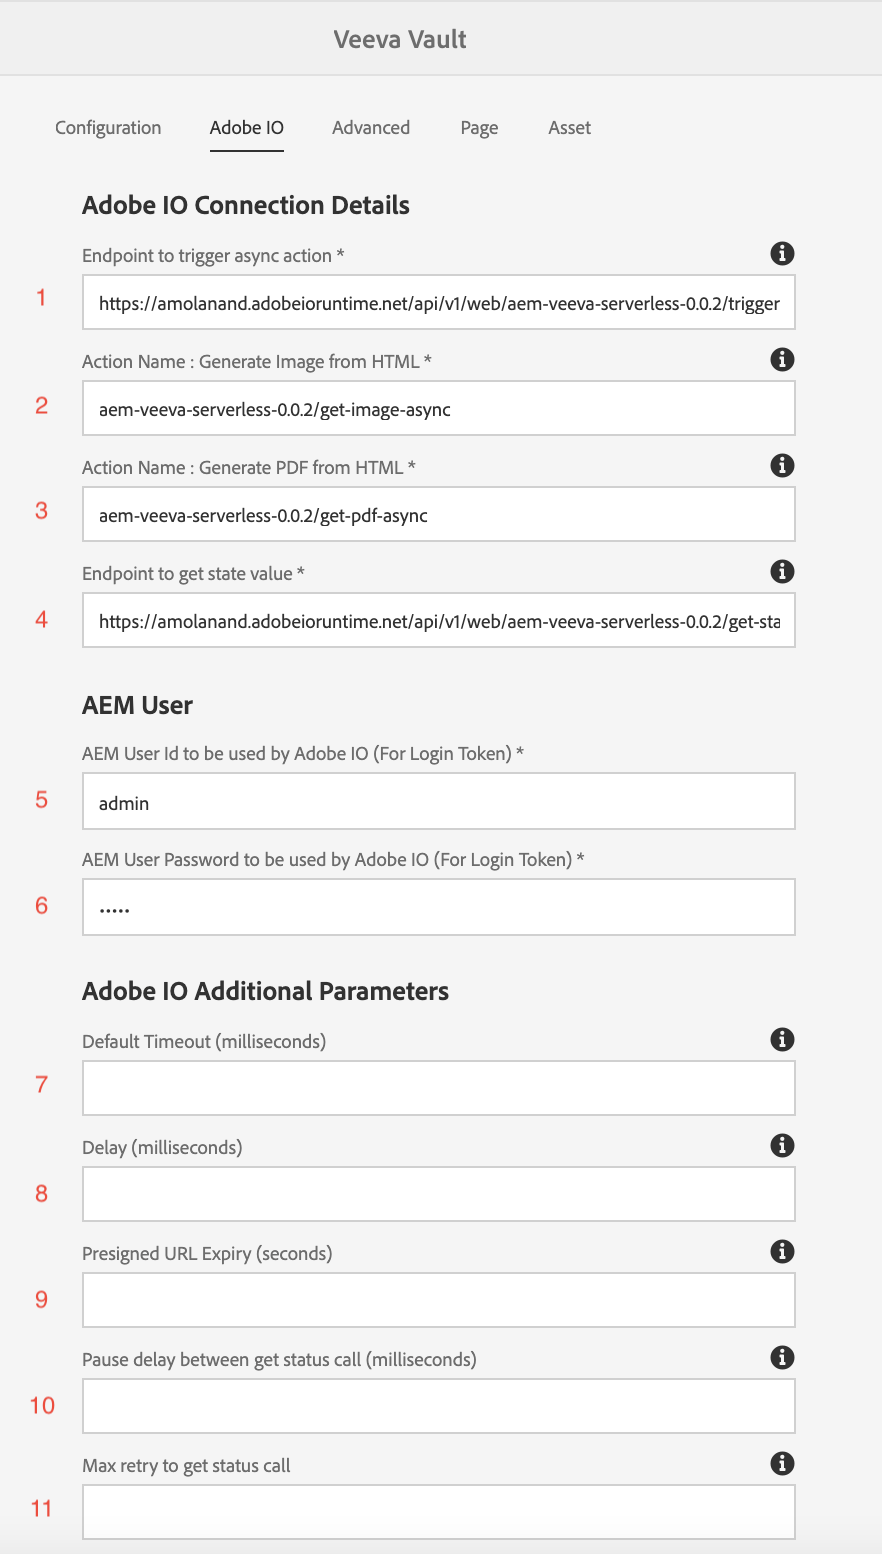
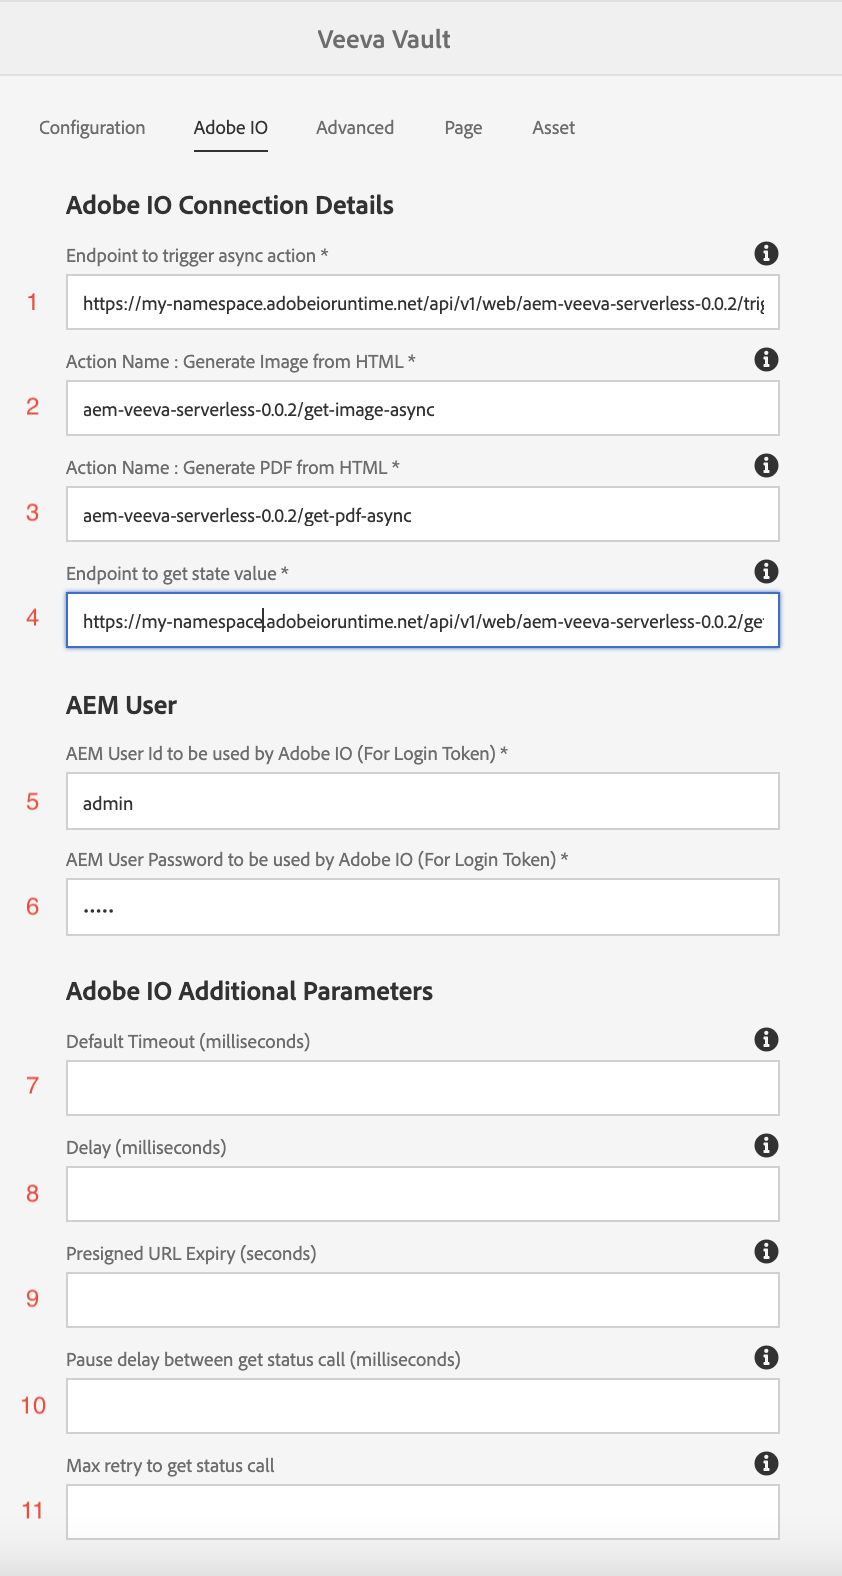
updates to docs

diff --git a/help/aem-vvpm-integration/usage.md b/help/aem-vvpm-integration/usage.md
@@ -1,9 +1,17 @@
 ---
-title: Veeva Vault Integration Setup
-description: Veeva Vault Integration Setup
+title: Veeva Vault Integration Usage
+description: Veeva Vault Integration Usage
 ---
 
-# Integration Setup
+# Integration Usage
+
+## Walkthrough
+
+The following video walk-through describes using the connector:
+
+![](https://video.tv.adobe.com/v/332137/?quality=12&learn=on)
+
+## Setup
 
 This guide will walk you through getting the connector up and running.
 
@@ -14,23 +22,23 @@ This guide will walk you through getting the connector up and running.
 >Steps in this documentation will guide you through creating integrations/registrations that involve assigning permissions and/or admin access.  It is your responsibility to ensure these steps comply with your company policies before performing, and to perform them carefully.
 >
 
-## Install Integration Package
+### Install Integration Package
 
-You will receive access the integration AEM package. There are two  options to install the connector: 
+You will receive access to the integration AEM package. There are two options to install the integration: 
 
-1. **Package Installation** - Straight forward and less involved. (Recommended)
-2. **POM Installation** - More advanced, but can be useful when using CICD and upgrading the connector.
+1. **Package Installation** - Straight forward and less involved.
+2. **POM Installation** - More advanced, but can be useful when using CICD and upgrading the integration.
 
-### Package Installation
+#### Package Installation
 
 To install the package, download it with the link provided. [Detailed instructions for installing an AEM package can be found by clicking here.](
 https://experienceleague.adobe.com/docs/experience-manager-64/administering/contentmanagement/package-manager.html?lang=en#installing-packages) 
 
-### POM Installation
+#### POM Installation
 
-To include the connector in your pom, follow these steps:
+To include the connector in your POM, follow these steps:
 
-1. Add the followings to the `~/.m2/settings.xml` replacing `YOUR_USERNAME` with the username provided and `YOUR_PASSWORD` with the the password provided:
+1. Add the following to the `~/.m2/settings.xml` replacing `YOUR_USERNAME` with the username provided and `YOUR_PASSWORD` with the the password provided:
 
     ```
     <settings>
@@ -56,7 +64,19 @@ To include the connector in your pom, follow these steps:
 
     ```
     <build>
-    ...
+        ...
+        <dependencies>
+            ...
+            <dependency>
+                ...
+                <groupId>com.adobe.acs.aemveeva</groupId>
+                <artifactId>aem-veeva-connector</artifactId>
+                <version>1.0.0</version>
+                ...
+            </dependency>            
+            ...
+        </dependencies>
+        ...
         <extensions>
             ...
             <extension>
@@ -66,7 +86,7 @@ To include the connector in your pom, follow these steps:
             </extension>
             ...
         </extensions>
-    ...
+        ...
     </build>
     ...
     <distributionManagement>
@@ -81,36 +101,40 @@ To include the connector in your pom, follow these steps:
     ...
     ```
 
-## Populate Cloud Configuration
+### Cloud Configuration
 
-Navigate to the cloud configuration and populate the configuration tabs.
+This integration is configured by creating a cloud configuration on folder the connector will be operating on. Follow these steps to create a cloud configuration:
 
-[Navigate to Cloud Configuration](assets/cloud-config-navigation.png)
+1. Navigate to the Veeva cloud configuration.
 
-[Navigate to Veeva Configuration](assets/veeva-config-navigation.png)
+    ![Navigate to Cloud Configuration](assets/cloud-config-navigate.png)
 
-### Configuration Tab
+2. Create a new Veeva cloud configuration on the appropriate folder and populate the as described in the next sections.
+
+    ![Create Cloud Configuration](assets/cloud-config-create.png)
+
+#### Configuration Tab
 
 Fill out the following in the configuration tab:
 
-[Configuration Tab](assets/configuration-tab.png)
+![Configuration Tab](assets/configuration-tab.png)
 
 1. Required. Title for Veeva Vault connector configuration. This can be an arbitrary value. (e.g. `Veeva Vault Configuration`)
-2. Required. The domain url of the Veeva instance (e.g. `https://vvtechpartner-adobe-promomats.veevavault.com/`)
+2. Required. The domain url of the Veeva instance (e.g. `https://my-instance.veevavault.com/`)
 3. Required. ClientID required to call Veeva Vault API. This can be an arbitrary value and is mostly used for debugging. (e.g. `adobe-aem-vvtechpartner`)
 4. Required. Veeva Vault username. See [Veeva User Creation](#veeva-user-creation).
 5. Required. Veeva Vault password. See [Veeva User Creation](#veeva-user-creation).
 
-### Adobe IO Tab
+#### Adobe IO Tab
 
 If the project needs to generate PDFs or images for pages, this tab is required. Fill out the following in the adobe io tab:
 
-[Adobe IO Tab](assets/adobe-io-tab.png)
+![Adobe IO Tab](assets/adobe-io-tab.png)
 
-1. Required. The Adobe IO endpoint for creating PDF Images. (e.g. `https://ID_GOES_HERE.adobeioruntime.net/api/v1/web/aem-veeva-serverless-0.0.2/trigger-action.json`)
+1. Required. The Adobe IO endpoint for creating PDF Images. (e.g. `https://my-namespace.adobeioruntime.net/api/v1/web/aem-veeva-serverless-0.0.2/trigger-action.json`)
 2. Required. The action name for page image generation. This value must be `aem-veeva-serverless-0.0.2/get-image-async`.
 3. Required. The action name for html image generation. This value must be `aem-veeva-serverless-0.0.2/get-pdf-async`.
-4. Required. The Adobe IO endpoint to get the state of the generation.(e.g. `https://ID_GOES_HERE.adobeioruntime.net/api/v1/web/aem-veeva-serverless-0.0.2/get-state-value`)
+4. Required. The Adobe IO endpoint to get the state of the generation.(e.g. `https://my-namespace.adobeioruntime.net/api/v1/web/aem-veeva-serverless-0.0.2/get-state-value`)
 5. Required. AEM username to be used by Adobe IO. See [AEM User Creation](#aem-user-creation).
 6. Required. AEM password to be used by Adobe IO. See [AEM User Creation](#aem-user-creation).
 7. Optional. Default timeout is to let the page respond until a specified time after which AIO service stops trying to get a response. Default value is `30000`.
@@ -119,11 +143,11 @@ If the project needs to generate PDFs or images for pages, this tab is required.
 10. Optional. Adobe IO screenshot/PDF generation service is async. AEM service calls AIO status endpoint to get screenshot/PDF. This property will decide in milliseconds the pause between in each status call. Default value is `10000`.
 11. Optional. Maximum retry count for status call to Adobe IO for getting screenshot/PDF. Default value is `10`.
 
-### Advanced Tab
+#### Advanced Tab
 
 Fill out the following in the advanced tab:
 
-[Advanced Tab](assets/advanced-tab.png)
+![Advanced Tab](assets/advanced-tab.png)
 
 1. Required for PDF/image generation. The filename pattern used when creating PDFs/images. `{name}` can be templated. (e.g. `{name}-screenshot`)
 2. Required for PDF/image generation. The device types for which page screenshots are required. Valid types include `Desktop`, `Tab (iPad)`, and `Mobile (iPhone X)`.
@@ -135,52 +159,76 @@ Fill out the following in the advanced tab:
 8. Optional. Property name for Document Id in Veeva Vault. Default value is `id`.
 9. Optional. Property name for Status in Veeva Vault. Default value is `status__v`.
 10. Optional. Property name for Document Modified Date. Default value is `version_modified_date__v`.
-11. Optional. Property name for document resource url. Default value will be `external_id__v`. If this field is already used, then create different field in Veeva and populate field name here.
+11. Optional. Property name for document resource url. Default value will be `external_id__v`. If this field is already used, then create a different field in Veeva and populate the field name here.
 
-### Page Tab
+#### Page Tab
 
 If syncing pages, fill out the following in the page tab:
 
-[Page Tab](assets/page-tab.png)
+![Page Tab](assets/page-tab.png)
 
 1. Required. Map a property from AEM to Veeva.
-    a. AEM property name. Selectable from AEM properties. 
-    b. Veeva property name. Select a page tab. 
+    a. AEM property name. Selectable from AEM properties. (e.g. `jcr:title`)
+    b. Veeva property name entered exactly at is exists in Veeva. (e.g. `name__v`)  
     c. Property type. Either `Text` or `Multiline Text`.
 
-2. Required. Map a property from Veeva to AEM. **NOTE! The mapping of `status__v` to `veeva-status` must exist.**
-    a. Veeva property name. Select a page tab.
-    b. AEM property name. Selectable from AEM properties. 
+2. Required. Map a property from Veeva to AEM. **NOTE! The mapping of `status__v` to a representative AEM property must exist.**
+    a. Veeva property name entered exactly at is exists in Veeva. (e.g. `name__v`)
+    b. AEM property name. Selectable from AEM properties. (e.g. `jcr:title`)
     c. Property type. Either `Text` or `Multiline Text`.
     
 
-### Asset Tab
+#### Asset Tab
 
 If syncing assets, fill out the following in the asset tab:
 
-[Asset Tab](assets/asset-tab.png)
+![Asset Tab](assets/asset-tab.png)
 
 1. Required. Map a property from AEM to Veeva.
-    a. AEM property name. Selectable from AEM properties. 
-    b. Veeva property name. Select a page tab. 
+    a. AEM property name. Selectable from AEM properties. (e.g. `/jcr:content/metadata/jcr:title`)
+    b. Veeva property name entered exactly at is exists in Veeva. (e.g. `name__v`)
     c. Property type. Either `Text` or `Multiline Text`.
 
-2. Required. Map a property from Veeva to AEM. **NOTE! The mapping of `status__v` to `veeva-status` must exist.**
-    a. Veeva property name. Select a page tab.
-    b. AEM property name. Selectable from AEM properties. 
+2. Required. Map a property from Veeva to AEM. **NOTE! The mapping of `status__v` to a representative AEM property must exist.**
+    a. Veeva property name entered exactly at is exists in Veeva. (e.g. `name__v`)
+    b. AEM property name. Selectable from AEM properties. (e.g. `/jcr:content/metadata/jcr:title`)
     c. Property type. Either `Text` or `Multiline Text`.
 
-## Additional Setup
+### Additional Setup
 
-### AEM User Creation
+#### AEM User Creation
 
-During PDF/Image generation, an AEM user needs to be created in order to get pages from AEM. Create and give permissions to a user by following these links:
+During PDF/Image generation, an AEM user needs to be created in order to get pages from AEM. Create and give read only permissions to a user by following these links:
 
-* [Creating a user in AEM](https://experienceleague.adobe.com/docs/experience-manager-65/forms/administrator-help/setup-organize-users/adding-configuring-users.html?lang=en#create-a-user)
-* [Adding permissions to a user in AEM](https://experienceleague.adobe.com/docs/experience-manager-65/administering/security/security.html?lang=en#permissions-in-aem)
+If using AEM 6.5.5+:
 
-
-### Veeva User Creation
-
-TODO: ADMIN -> Users and Groups -> Vault Users -> ensure Vault Owners
+    * [Creating a user in AEM](https://experienceleague.adobe.com/docs/experience-manager-65/forms/administrator-help/setup-organize-users/adding-configuring-users.html?lang=en#create-a-user)
+    * [Adding permissions to a user in AEM](https://experienceleague.adobe.com/docs/experience-manager-65/administering/security/security.html?lang=en#permissions-in-aem)
     
+If using AEM Cloud Services:
+
+    * [Managing Users with AEM Cloud Services](https://experienceleague.adobe.com/docs/experience-manager-learn/cloud-service/accessing/aem-users-groups-and-permissions.html?lang=en#accessing)
+
+>[!IMPORTANT]
+>
+> These actions must be performed as an administrator.
+> You must comply with your organizations security standards when creating users and setting permissions.
+>
+
+#### Veeva User Creation
+
+In order to use this integration, a user needs to be created in Veeva Vault. To create a user, follow these steps:
+
+1. Navigate to Admin -> Users and Groups -> Vault users -> Create
+    
+    ![Navigate to Veeva User](assets/veeva-user-navigate.png)
+
+2. Fill out the required blacks, most importantly, set the `License Type` to `Full User` and the `Security Profile` to `Vault Owner`. Save when complete.
+
+    ![Create Veeva User](assets/veeva-user-create.png) 
+
+>[!IMPORTANT]
+>
+> These actions must be performed as an administrator.
+> You must comply with your organizations security standards when creating users and setting permissions.
+>    

diff --git a/help/aem-vvpm-integration/overview.md b/help/aem-vvpm-integration/overview.md
@@ -17,7 +17,7 @@ This integration requires the following software versions:
 >This capability is not available out of the box as part of the product. The implementation requires Adobe Consulting maintenance contract. Please reach out to your Adobe representative to find out more.
 >
 
-## Principles
+## Principles and Features
 
 This integration is designed to support three main use cases:
 
@@ -43,7 +43,7 @@ In order to provision this integration, you will need to follow the steps below.
 
 Please follow the flowchart and flowchart details below to request and configure the integration.
 
-![](assets/integration-request.png)
+![Request Access](assets/integration-request.png)
 
 Flowchart Details (maps to steps above):
 
@@ -61,8 +61,9 @@ Support tickets can be logged with Adobe Customer Care. Your Adobe Experience Cl
 [Adobe Admin Console](https://adminconsole.adobe.com/), click on the support tab, and create a case. For any issues with integration, 
 make sure to include the following information:
 
-* **Process Title**: "Veeva Vault PromoMats Integration"
-* **Process Owner**: "Data Engineering"
+* **Process Title**: `Veeva Vault PromoMats Integration`
+* **Process Owner**: `Data Engineering`
+* **Description**: `Description of issue`
 * **AEM Instance URL**: `Place the Adobe Experience Manager instance url here`
 * **Veeva Instance URL**: `Place the Veeva Vault PromoMats instance url here`
 * **Issue Description**: `Place the description of the issue here`

diff --git a/help/aem-vvpm-integration/TOC.md b/help/aem-vvpm-integration/TOC.md
@@ -8,7 +8,6 @@ user-guide-description: AEM <> VVPM Integration documentation.
 # AEM <> VVPM Integration {#aem-vvpm-integration}
 
 + [Overview](overview.md)
-+ [Setup](setup.md)
-+ [Using](using.md)
++ [Usage](usage.md)
 + [Notices](notices.md)
 + [FAQ](faq.md)
